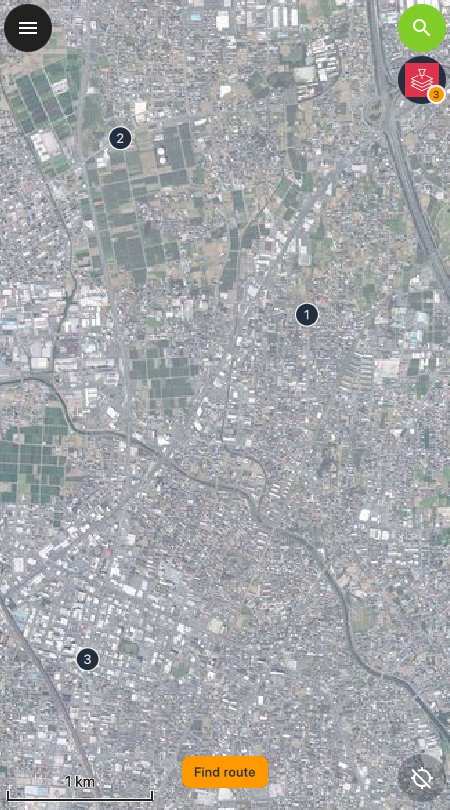
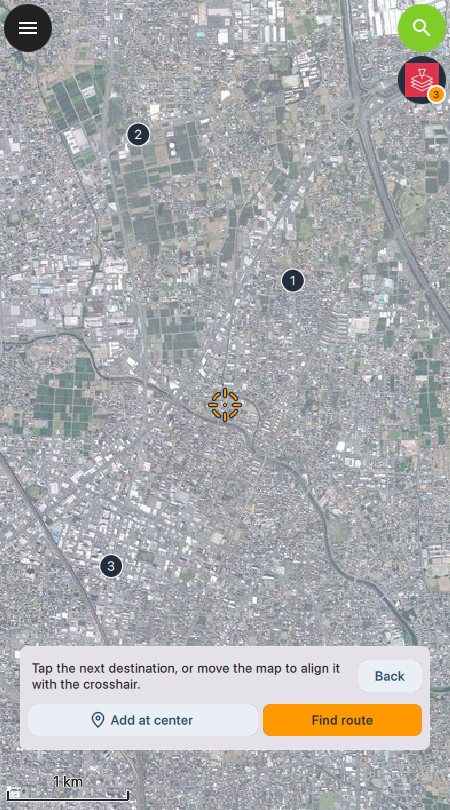
Guide map stop selection and support precise center placement

diff --git a/main.qml b/main.qml
@@ -84,10 +84,13 @@ Item {
 
     function pickPoint(screenPoint, device, interaction) {
         if (!picking || interaction !== "clicked") return false
-        if (pending) return true
+        if (!pending) addMapPoint(screenPoint)
+        return true
+    }
+
+    function addMapPoint(screenPoint) {
         const mapPoint = canvas.mapSettings.screenToCoordinate(screenPoint)
         addStop(mapPoint, canvas.mapSettings.destinationCrs, qsTranslate("AmazonLocationService", "Map point"))
-        return true
     }
 
     function toWgs84(point, crs) {
@@ -401,6 +404,13 @@ Item {
                 Text { anchors.centerIn: parent; text: isPlace ? "●" : index + 1; color: "white" }
             }
         }
+        Image {
+            id: aim
+            anchors.centerIn: parent
+            visible: plugin.picking && plugin.canAddStop
+            source: Qt.resolvedUrl("icons/Crosshair.svg")
+            Accessible.ignored: true
+        }
     }
 
     Pane {
@@ -469,24 +479,74 @@ Item {
 
     QfMultiFeatureListModel { id: matches }
 
-    LocationButton {
+    Pane {
+        id: guide
         parent: plugin.canvas.parent
         anchors.horizontalCenter: parent.horizontalCenter
         anchors.bottom: parent.bottom
-        anchors.bottomMargin: plugin.overlayBottomMargin
-        height: Math.max(implicitHeight, plugin.touchHeight)
-        visible: plugin.picking && plugin.stops.length >= 2
-        enabled: !plugin.pending
-        text: plugin.pending ? qsTranslate("AmazonLocationService", "Finding route…") : plugin.searchHint ? qsTranslate("AmazonLocationService", "Enter settings") : qsTranslate("AmazonLocationService", "Find route")
-        Accessible.description: plugin.statusText
-        primary: true
-        onClicked: {
-            if (plugin.searchHint) {
-                plugin.picking = false
-                panel.open()
-                settingsPopup.open()
-            } else {
-                plugin.search()
+        // On narrow maps, keep the guide above QField's bottom corner controls.
+        anchors.bottomMargin: plugin.overlayBottomMargin + (parent.width - width < 2 * (plugin.touchHeight + plugin.gutter) ? plugin.touchHeight : 0)
+        width: Math.min(410, parent.width - 2 * plugin.gutter)
+        visible: plugin.picking
+        padding: 8
+        background: Rectangle { radius: 8; color: QfTheme.groupBoxSurfaceColor; border.color: QfTheme.controlBorderColor }
+        contentItem: ColumnLayout {
+            spacing: 0
+            RowLayout {
+                Layout.fillWidth: true
+                Label {
+                    Layout.fillWidth: true
+                    Layout.leftMargin: 4
+                    wrapMode: Text.Wrap
+                    color: QfTheme.mainTextColor
+                    text: plugin.pending ? qsTranslate("AmazonLocationService", "Finding route…")
+                        : plugin.atLimit ? qsTranslate("AmazonLocationService", "%1 supports up to %2 stops.").arg(plugin.travelMode.label).arg(plugin.maxStops)
+                        : !plugin.stops.length || plugin.needsOrigin ? qsTranslate("AmazonLocationService", "Tap the origin on the map, or move the map to align it with the crosshair.")
+                        : qsTranslate("AmazonLocationService", "Tap the next destination, or move the map to align it with the crosshair.")
+                }
+                LocationButton {
+                    text: qsTranslate("AmazonLocationService", "Back")
+                    Layout.minimumHeight: plugin.touchHeight
+                    enabled: !plugin.pending
+                    onClicked: {
+                        plugin.picking = false
+                        panel.open()
+                    }
+                }
+            }
+            GridLayout {
+                Layout.fillWidth: true
+                columns: centerButton.implicitWidth + columnSpacing + mapRouteButton.implicitWidth <= width ? 2 : 1
+                rowSpacing: 0
+                LocationButton {
+                    id: centerButton
+                    Layout.fillWidth: true
+                    Layout.minimumHeight: plugin.touchHeight
+                    enabled: plugin.canAddStop
+                    primary: !mapRouteButton.visible
+                    text: qsTranslate("AmazonLocationService", "Add at center")
+                    icon.source: Qt.resolvedUrl("icons/MapPin.svg")
+                    onClicked: plugin.addMapPoint(aim.mapToItem(plugin.canvas, aim.width / 2, aim.height / 2))
+                }
+                LocationButton {
+                    id: mapRouteButton
+                    Layout.fillWidth: true
+                    Layout.minimumHeight: plugin.touchHeight
+                    visible: plugin.stops.length >= 2
+                    enabled: !plugin.pending
+                    text: plugin.pending ? qsTranslate("AmazonLocationService", "Finding route…") : plugin.searchHint ? qsTranslate("AmazonLocationService", "Enter settings") : qsTranslate("AmazonLocationService", "Find route")
+                    Accessible.description: plugin.statusText
+                    primary: true
+                    onClicked: {
+                        if (plugin.searchHint) {
+                            plugin.picking = false
+                            panel.open()
+                            settingsPopup.open()
+                        } else {
+                            plugin.search()
+                        }
+                    }
+                }
             }
         }
     }
@@ -798,7 +858,6 @@ Item {
                         onClicked: {
                             panel.close()
                             plugin.picking = true
-                            plugin.window.displayToast(qsTranslate("AmazonLocationService", "Tap the map in visit order. Find a route after adding at least two stops."))
                         }
                     }
                     LocationButton {

diff --git a/main_ja.ts b/main_ja.ts
@@ -212,8 +212,16 @@
         <translation>地図から地点を追加</translation>
     </message>
     <message>
-        <source>Tap the map in visit order. Find a route after adding at least two stops.</source>
-        <translation>訪問順に地図をタップしてください。2か所以上追加すると経路を検索できます。</translation>
+        <source>Tap the origin on the map, or move the map to align it with the crosshair.</source>
+        <translation>地図をタップするか、地図を動かして出発地を照準に合わせてください。</translation>
+    </message>
+    <message>
+        <source>Tap the next destination, or move the map to align it with the crosshair.</source>
+        <translation>次の目的地をタップするか、地図を動かして照準に合わせてください。</translation>
+    </message>
+    <message>
+        <source>Add at center</source>
+        <translation>中心に追加</translation>
     </message>
     <message>
         <source>Add from layer ▴</source>

diff --git a/README.md b/README.md
@@ -77,9 +77,9 @@ On the map, tap **Route from current location** to open Route Search with your c
 
 ### Add stops from the map or a layer
 
-**To add stops from the map**, tap **Add stops from map**, then tap the map in visit order, starting with the origin. In the example below, the black markers indicate **1 as the origin, 2 as a waypoint, and 3 as the destination**.
+Tap **Add stops from map**, then tap a location to add it to the visit order. For precise placement, zoom in, move the map until the orange crosshair is over the location, and tap **Add at center**. You can use either method for each stop. In the example below, **1** is the origin, **2** is a waypoint, and **3** is the destination.
 
-<img src="img/map-stop-selection.png" alt="Map with numbered stops 1, 2, and 3, a stop count on the service button, and a route search button at the bottom" width="360">
+<img src="img/map-stop-selection.png" alt="Three numbered stops on a map with a central crosshair and the Add at center and Find route buttons below" width="360">
 
 After adding at least two stops, tap **Find route** at the bottom of the map to search in that order. If **Enter settings** appears instead, tap it to enter the Region and API key.
 
@@ -93,7 +93,7 @@ The feature names in the image below are sample data.
 
 ### Review the visit order and find a route
 
-While you add stops from the map, the service button shows the stop count. Open the service menu, select **Route Search**, and check that **Visit order** lists the origin first, followed by any waypoints and then the destination.
+While you add stops from the map, the service button shows the stop count. Tap **Back** to review the origin, waypoints, and destination under **Visit order**.
 
 <img src="img/visit-order-editor.png" alt="Three scooter stops in visit order, with Shortest selected for the order and Fastest for the route" width="360">
 
